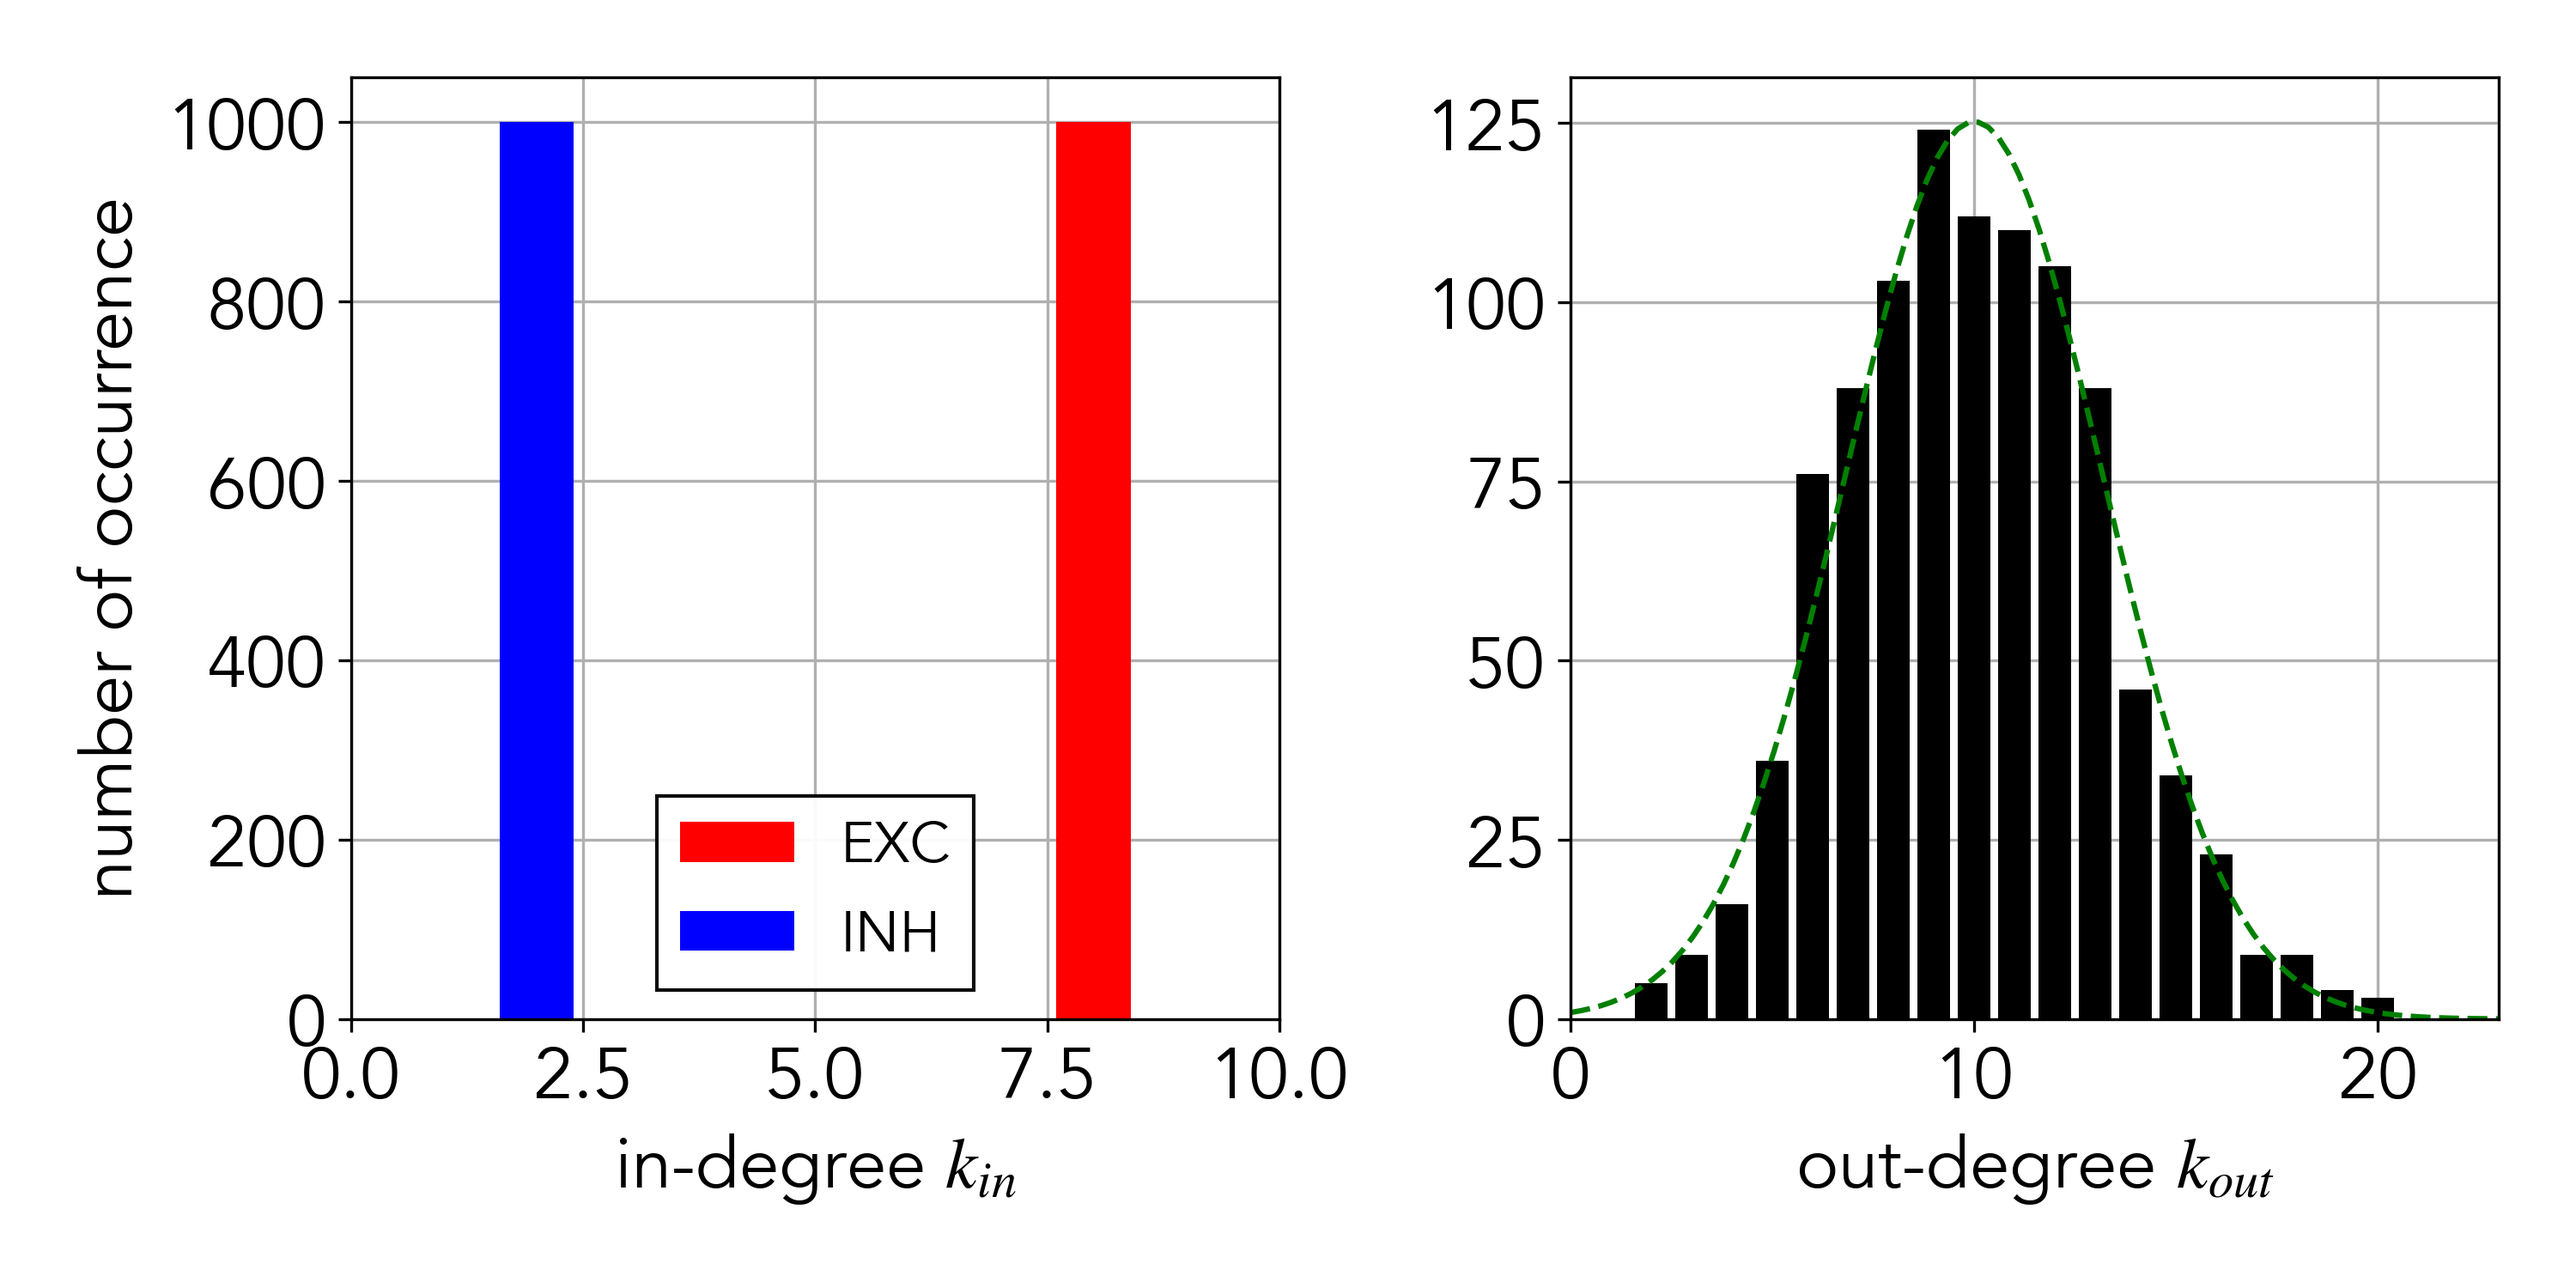
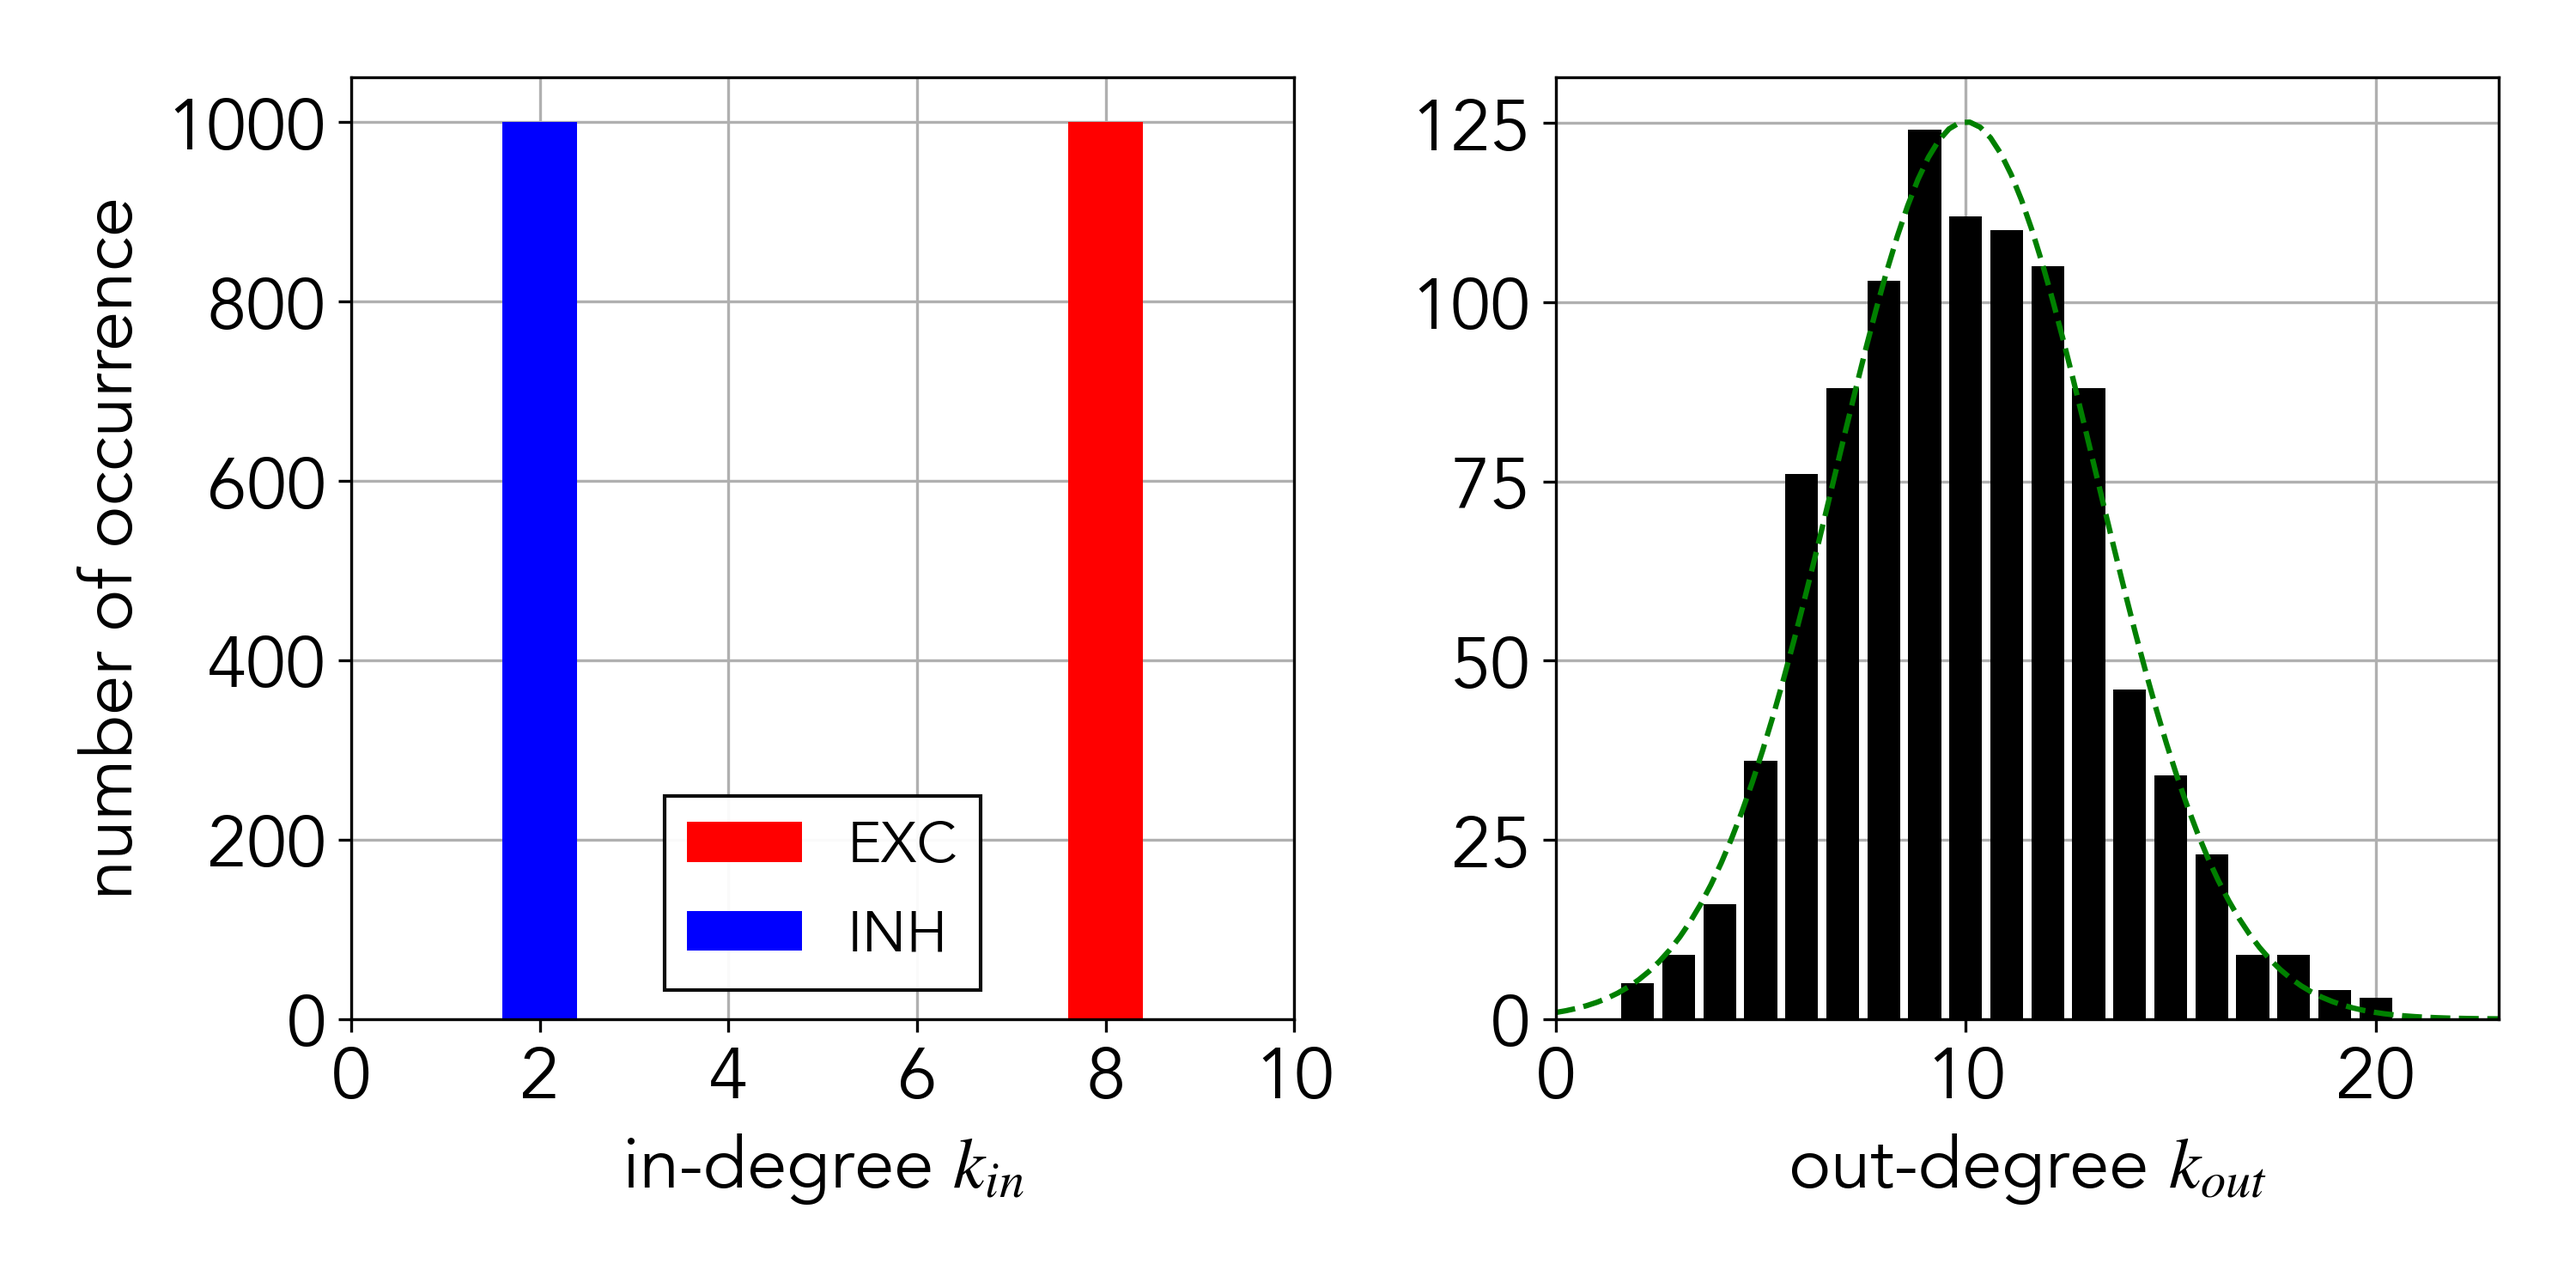
update

diff --git a/figures/fig_netdegdist.py b/figures/fig_netdegdist.py
@@ -5,7 +5,6 @@ from scripts.libs.mylib4 import qgraph, NeuronalNetwork
 from matplotlib import pyplot as plt
 from scipy import stats
 import numpy as np
-# qgraph.modern_style()
 qgraph.config_font("avenir")
 qgraph.default_legend_style()
 
@@ -24,6 +23,7 @@ gausfit_y = stats.norm.pdf(gausfit_x,m_fit,s_fit)
 axes[1].plot(gausfit_x, gausfit_y*1000, "g--")
 axes[0].set(xlabel="in-degree $k_{{in}}$",ylabel="number of occurrence")
 axes[1].set(xlabel="out-degree $k_{{out}}$")
+axes[0].set(xticks=[0,2,4,6,8,10])
 axes[0].set(xlim=(0,10),ylim=(0,None))
 axes[1].set(xlim=(0,23),ylim=(0,None))
 axes[0].legend()
